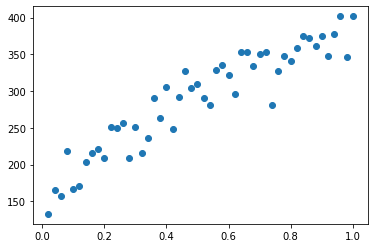
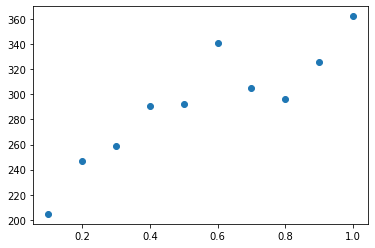
changes theme (hopefully)

diff --git a/docs/index.html b/docs/index.html
@@ -121,14 +121,16 @@ The mean is the trimmed mean the upper limit is twice the standard deviation fro
 <div class="inner_cell">
     <div class="input_area">
 <div class=" highlight hl-ipython3"><pre><span></span><span class="kn">import</span> <span class="nn">numpy</span> <span class="k">as</span> <span class="nn">np</span>
+<span class="kn">from</span> <span class="nn">scipy</span> <span class="kn">import</span> <span class="n">stats</span>
+
 <span class="n">tm</span> <span class="o">=</span> <span class="p">[]</span>
 <span class="n">etm</span> <span class="o">=</span> <span class="p">[]</span>
-<span class="n">thicknesses</span> <span class="o">=</span> <span class="n">np</span><span class="o">.</span><span class="n">linspace</span><span class="p">(</span><span class="mf">0.02</span><span class="p">,</span> <span class="mf">1.0</span><span class="p">)</span>
+<span class="n">thicknesses</span> <span class="o">=</span> <span class="n">np</span><span class="o">.</span><span class="n">linspace</span><span class="p">(</span><span class="mf">0.1</span><span class="p">,</span> <span class="mf">1.0</span><span class="p">,</span> <span class="mi">10</span><span class="p">)</span>
 <span class="k">for</span> <span class="n">t</span> <span class="ow">in</span> <span class="n">thicknesses</span><span class="p">:</span>
     <span class="n">main_macro</span><span class="p">,</span> <span class="n">output_root</span> <span class="o">=</span> <span class="n">create_all</span><span class="p">(</span><span class="n">sensor_thickness</span><span class="o">=</span><span class="n">t</span><span class="p">)</span>
     <span class="n">run_macro</span><span class="p">(</span><span class="n">main_macro</span><span class="p">)</span>
     <span class="n">root_hits_file</span> <span class="o">=</span> <span class="n">output_root</span><span class="p">[</span><span class="s1">&#39;hits&#39;</span><span class="p">][</span><span class="mi">0</span><span class="p">]</span>
-    <span class="n">edep</span> <span class="o">=</span> <span class="n">get_edep_data</span><span class="p">(</span><span class="n">root_hits_file</span><span class="p">)</span>
+    <span class="n">edep</span> <span class="o">=</span> <span class="n">get_edep_data</span><span class="p">(</span><span class="n">get_df_subentry2</span><span class="p">(</span><span class="n">root_hits_file</span><span class="p">),</span> <span class="n">sensor</span><span class="o">=</span><span class="mi">0</span><span class="p">)</span>
     <span class="c1"># check that edep exists</span>
     <span class="k">if</span> <span class="n">edep</span><span class="o">.</span><span class="n">any</span><span class="p">():</span>
         <span class="n">tm</span><span class="o">.</span><span class="n">append</span><span class="p">(</span><span class="n">stats</span><span class="o">.</span><span class="n">tmean</span><span class="p">(</span><span class="n">edep</span><span class="p">,</span> <span class="n">limits</span><span class="o">=</span><span class="p">(</span><span class="n">edep</span><span class="o">.</span><span class="n">min</span><span class="p">(),</span><span class="n">np</span><span class="o">.</span><span class="n">mean</span><span class="p">(</span><span class="n">edep</span><span class="p">)</span> <span class="o">+</span> <span class="mi">2</span> <span class="o">*</span> <span class="n">np</span><span class="o">.</span><span class="n">std</span><span class="p">(</span><span class="n">edep</span><span class="p">))))</span>
@@ -147,18 +149,38 @@ The mean is the trimmed mean the upper limit is twice the standard deviation fro
 
 <div class="output_area">
 
-<div class="output_subarea output_text output_error">
-<pre>
-<span class="ansi-red-fg">---------------------------------------------------------------------------</span>
-<span class="ansi-red-fg">NameError</span>                                 Traceback (most recent call last)
-<span class="ansi-green-fg">&lt;ipython-input-5-2a7ddd594455&gt;</span> in <span class="ansi-cyan-fg">&lt;module&gt;</span>
-<span class="ansi-green-intense-fg ansi-bold">      1</span> tm <span class="ansi-blue-fg">=</span> <span class="ansi-blue-fg">[</span><span class="ansi-blue-fg">]</span>
-<span class="ansi-green-intense-fg ansi-bold">      2</span> etm <span class="ansi-blue-fg">=</span> <span class="ansi-blue-fg">[</span><span class="ansi-blue-fg">]</span>
-<span class="ansi-green-fg">----&gt; 3</span><span class="ansi-red-fg"> </span>thicknesses <span class="ansi-blue-fg">=</span> np<span class="ansi-blue-fg">.</span>linspace<span class="ansi-blue-fg">(</span><span class="ansi-cyan-fg">0.02</span><span class="ansi-blue-fg">,</span> <span class="ansi-cyan-fg">1.0</span><span class="ansi-blue-fg">)</span>
-<span class="ansi-green-intense-fg ansi-bold">      4</span> <span class="ansi-green-fg">for</span> t <span class="ansi-green-fg">in</span> thicknesses<span class="ansi-blue-fg">:</span>
-<span class="ansi-green-intense-fg ansi-bold">      5</span>     main_macro<span class="ansi-blue-fg">,</span> output_root <span class="ansi-blue-fg">=</span> create_all<span class="ansi-blue-fg">(</span>sensor_thickness<span class="ansi-blue-fg">=</span>t<span class="ansi-blue-fg">)</span>
-
-<span class="ansi-red-fg">NameError</span>: name &#39;np&#39; is not defined</pre>
+<div class="output_subarea output_stream output_stdout output_text">
+<pre>system thickness: 0.6
+y location of sensor 0 is: 0.25
+system created with: thickness: 0.6 at loc: -21
+system thickness: 0.7
+y location of sensor 0 is: 0.24999999999999997
+system created with: thickness: 0.7 at loc: -21
+system thickness: 0.8
+y location of sensor 0 is: 0.25
+system created with: thickness: 0.8 at loc: -21
+system thickness: 0.9
+y location of sensor 0 is: 0.25
+system created with: thickness: 0.9 at loc: -21
+system thickness: 1.0
+y location of sensor 0 is: 0.25
+system created with: thickness: 1.0 at loc: -21
+system thickness: 1.1
+y location of sensor 0 is: 0.25000000000000006
+system created with: thickness: 1.1 at loc: -21
+system thickness: 1.2000000000000002
+y location of sensor 0 is: 0.25000000000000006
+system created with: thickness: 1.2000000000000002 at loc: -21
+system thickness: 1.3
+y location of sensor 0 is: 0.25
+system created with: thickness: 1.3 at loc: -21
+system thickness: 1.4
+y location of sensor 0 is: 0.24999999999999994
+system created with: thickness: 1.4 at loc: -21
+system thickness: 1.5
+y location of sensor 0 is: 0.25
+system created with: thickness: 1.5 at loc: -21
+</pre>
 </div>
 </div>
 
@@ -170,7 +192,7 @@ The mean is the trimmed mean the upper limit is twice the standard deviation fro
 
 <div class="cell border-box-sizing text_cell rendered"><div class="inner_cell">
 <div class="text_cell_render border-box-sizing rendered_html">
-<p>5 phatom layers each 1 cm thick, the two outer layers had skull as their material, the 3 inner ones had water as the material. The beam was 250 MeV proton pencil beam. The sensor thickness was varied between 20 and 1000 $\mu$m</p>
+<p>20 phatom layers each 1 cm thick, the two outer layers had skull as their material, the 18 inner ones have water as the material. The beam was 250 MeV proton pencil beam. The sensor thickness was varied between 100 and 1000 $\mu$m</p>
 
 </div>
 </div>
@@ -187,6 +209,34 @@ The mean is the trimmed mean the upper limit is twice the standard deviation fro
 </pre></div>
 
     </div>
+</div>
+</div>
+
+<div class="output_wrapper">
+<div class="output">
+
+<div class="output_area">
+
+
+
+<div class="output_text output_subarea output_execute_result">
+<pre>&lt;matplotlib.collections.PathCollection at 0x7fa760ce1d00&gt;</pre>
+</div>
+
+</div>
+
+<div class="output_area">
+
+
+
+<div class="output_png output_subarea ">
[1 lines of base64/hex data omitted]
+"
+>
+</div>
+
+</div>
+
 </div>
 </div>
 
@@ -208,7 +258,7 @@ The mean is the trimmed mean the upper limit is twice the standard deviation fro
 </div>
 <div class="cell border-box-sizing text_cell rendered"><div class="inner_cell">
 <div class="text_cell_render border-box-sizing rendered_html">
-<p>Next two cells show some practice with saving and reading back csv files.</p>
+<p>save the above example with 20 phantom layers</p>
 
 </div>
 </div>
@@ -222,7 +272,7 @@ The mean is the trimmed mean the upper limit is twice the standard deviation fro
     <div class="input_area">
 <div class=" highlight hl-ipython3"><pre><span></span><span class="kn">import</span> <span class="nn">csv</span>
 <span class="n">columns</span> <span class="o">=</span> <span class="p">[</span><span class="s2">&quot;thickness&quot;</span><span class="p">,</span> <span class="s2">&quot;trimmed mean&quot;</span><span class="p">,</span> <span class="s2">&quot;error_on_trimmed_mean&quot;</span><span class="p">]</span>
-<span class="k">with</span> <span class="nb">open</span><span class="p">(</span><span class="s1">&#39;thickness.csv&#39;</span><span class="p">,</span> <span class="s1">&#39;w&#39;</span><span class="p">,</span> <span class="n">encoding</span><span class="o">=</span><span class="s1">&#39;utf-8&#39;</span><span class="p">)</span> <span class="k">as</span> <span class="n">f_out</span><span class="p">:</span>
+<span class="k">with</span> <span class="nb">open</span><span class="p">(</span><span class="s1">&#39;thickness_20.csv&#39;</span><span class="p">,</span> <span class="s1">&#39;w&#39;</span><span class="p">,</span> <span class="n">encoding</span><span class="o">=</span><span class="s1">&#39;utf-8&#39;</span><span class="p">)</span> <span class="k">as</span> <span class="n">f_out</span><span class="p">:</span>
     <span class="n">f_writer</span> <span class="o">=</span> <span class="n">csv</span><span class="o">.</span><span class="n">writer</span><span class="p">(</span><span class="n">f_out</span><span class="p">,</span> <span class="n">delimiter</span><span class="o">=</span><span class="s1">&#39;,&#39;</span><span class="p">,</span> <span class="n">lineterminator</span><span class="o">=</span><span class="s1">&#39;</span><span class="se">\n</span><span class="s1">&#39;</span><span class="p">)</span>
     <span class="n">f_writer</span><span class="o">.</span><span class="n">writerow</span><span class="p">(</span><span class="n">columns</span><span class="p">)</span>
     <span class="n">f_writer</span><span class="o">.</span><span class="n">writerows</span><span class="p">(</span><span class="nb">zip</span><span class="p">(</span><span class="n">thicknesses</span><span class="p">,</span> <span class="n">tm</span><span class="p">,</span> <span class="n">etm</span><span class="p">))</span>
@@ -235,6 +285,13 @@ The mean is the trimmed mean the upper limit is twice the standard deviation fro
 </div>
     {% endraw %}
 
+<div class="cell border-box-sizing text_cell rendered"><div class="inner_cell">
+<div class="text_cell_render border-box-sizing rendered_html">
+<p>Read back an earlier result with 5 phatom layers each 1 cm thick, the two outer layers had skull as their material, the 3 inner ones have water as the material. The beam the same as in the above example 250 MeV proton pencil beam. The sensor thickness was varied between 20 and 1000 $\mu$m in 20 $\mu$m steps</p>
+
+</div>
+</div>
+</div>
     {% raw %}
     
 <div class="cell border-box-sizing code_cell rendered">
@@ -249,6 +306,34 @@ The mean is the trimmed mean the upper limit is twice the standard deviation fro
 </pre></div>
 
     </div>
+</div>
+</div>
+
+<div class="output_wrapper">
+<div class="output">
+
+<div class="output_area">
+
+
+
+<div class="output_text output_subarea output_execute_result">
+<pre>&lt;matplotlib.collections.PathCollection at 0x7fa747cba040&gt;</pre>
+</div>
+
+</div>
+
+<div class="output_area">
+
+
+
+<div class="output_png output_subarea ">
[1 lines of base64/hex data omitted]
+"
+>
+</div>
+
+</div>
+
 </div>
 </div>
 
@@ -276,10 +361,7 @@ The mean is the trimmed mean the upper limit is twice the standard deviation fro
 
 <div class="inner_cell">
     <div class="input_area">
-<div class=" highlight hl-ipython3"><pre><span></span><span class="kn">import</span> <span class="nn">numpy</span> <span class="k">as</span> <span class="nn">np</span>
-<span class="kn">from</span> <span class="nn">scipy</span> <span class="kn">import</span> <span class="n">stats</span>
-
-<span class="n">m</span> <span class="o">=</span> <span class="n">np</span><span class="o">.</span><span class="n">mean</span><span class="p">(</span><span class="n">edep</span><span class="p">)</span>
+<div class=" highlight hl-ipython3"><pre><span></span><span class="n">m</span> <span class="o">=</span> <span class="n">np</span><span class="o">.</span><span class="n">mean</span><span class="p">(</span><span class="n">edep</span><span class="p">)</span>
 <span class="n">em</span> <span class="o">=</span> <span class="n">stats</span><span class="o">.</span><span class="n">sem</span><span class="p">(</span><span class="n">edep</span><span class="p">)</span>
 <span class="n">tm</span> <span class="o">=</span> <span class="n">stats</span><span class="o">.</span><span class="n">tmean</span><span class="p">(</span><span class="n">edep</span><span class="p">,</span> <span class="n">limits</span><span class="o">=</span><span class="p">(</span><span class="n">edep</span><span class="o">.</span><span class="n">min</span><span class="p">(),</span><span class="n">np</span><span class="o">.</span><span class="n">mean</span><span class="p">(</span><span class="n">edep</span><span class="p">)</span> <span class="o">+</span> <span class="mi">2</span> <span class="o">*</span> <span class="n">np</span><span class="o">.</span><span class="n">std</span><span class="p">(</span><span class="n">edep</span><span class="p">)))</span>
 <span class="n">tm_p</span> <span class="o">=</span> <span class="n">stats</span><span class="o">.</span><span class="n">tmean</span><span class="p">(</span><span class="n">edep</span><span class="p">,</span> <span class="n">limits</span><span class="o">=</span><span class="p">(</span><span class="n">edep</span><span class="o">.</span><span class="n">min</span><span class="p">(),</span><span class="n">np</span><span class="o">.</span><span class="n">mean</span><span class="p">(</span><span class="n">edep</span><span class="p">)</span> <span class="o">+</span> <span class="mi">2</span> <span class="o">*</span> <span class="n">np</span><span class="o">.</span><span class="n">std</span><span class="p">(</span><span class="n">edep</span><span class="p">)</span> <span class="o">+</span> <span class="n">em</span><span class="p">))</span>
@@ -293,6 +375,22 @@ The mean is the trimmed mean the upper limit is twice the standard deviation fro
 </pre></div>
 
     </div>
+</div>
+</div>
+
+<div class="output_wrapper">
+<div class="output">
+
+<div class="output_area">
+
+<div class="output_subarea output_stream output_stdout output_text">
+<pre>Mean:        1152.969970703125,       Error on mean: 11.57, SNR: 99.67
+Trimmed mean 1047.13, Error on trimmed mean: 2.89, SNR: 362.09
+Trimmed mean upper 1047.39, Trimmed mean lower 1046.61 difference: 0.78, SNR: 1338.37
+</pre>
+</div>
+</div>
+
 </div>
 </div>
 

diff --git a/README.md b/README.md
@@ -34,14 +34,16 @@ The mean is the trimmed mean the upper limit is twice the standard deviation fro
 
 ```python
 import numpy as np
+from scipy import stats
+
 tm = []
 etm = []
-thicknesses = np.linspace(0.02, 1.0)
+thicknesses = np.linspace(0.1, 1.0, 10)
 for t in thicknesses:
     main_macro, output_root = create_all(sensor_thickness=t)
     run_macro(main_macro)
     root_hits_file = output_root['hits'][0]
-    edep = get_edep_data(root_hits_file)
+    edep = get_edep_data(get_df_subentry2(root_hits_file), sensor=0)
     # check that edep exists
     if edep.any():
         tm.append(stats.tmean(edep, limits=(edep.min(),np.mean(edep) + 2 * np.std(edep))))
@@ -51,43 +53,72 @@ for t in thicknesses:
         # print(f'Trimmed mean {round(tm, 2)}, Error on trimmed mean: {round(etm, 2)}, SNR: {round(tm/etm, 2)}')
 ```
 
+    system thickness: 0.6
+    y location of sensor 0 is: 0.25
+    system created with: thickness: 0.6 at loc: -21
+    system thickness: 0.7
+    y location of sensor 0 is: 0.24999999999999997
+    system created with: thickness: 0.7 at loc: -21
+    system thickness: 0.8
+    y location of sensor 0 is: 0.25
+    system created with: thickness: 0.8 at loc: -21
+    system thickness: 0.9
+    y location of sensor 0 is: 0.25
+    system created with: thickness: 0.9 at loc: -21
+    system thickness: 1.0
+    y location of sensor 0 is: 0.25
+    system created with: thickness: 1.0 at loc: -21
+    system thickness: 1.1
+    y location of sensor 0 is: 0.25000000000000006
+    system created with: thickness: 1.1 at loc: -21
+    system thickness: 1.2000000000000002
+    y location of sensor 0 is: 0.25000000000000006
+    system created with: thickness: 1.2000000000000002 at loc: -21
+    system thickness: 1.3
+    y location of sensor 0 is: 0.25
+    system created with: thickness: 1.3 at loc: -21
+    system thickness: 1.4
+    y location of sensor 0 is: 0.24999999999999994
+    system created with: thickness: 1.4 at loc: -21
+    system thickness: 1.5
+    y location of sensor 0 is: 0.25
+    system created with: thickness: 1.5 at loc: -21
 
-    ---------------------------------------------------------------------------
 
-    NameError                                 Traceback (most recent call last)
-
-    <ipython-input-5-2a7ddd594455> in <module>
-          1 tm = []
-          2 etm = []
-    ----> 3 thicknesses = np.linspace(0.02, 1.0)
-          4 for t in thicknesses:
-          5     main_macro, output_root = create_all(sensor_thickness=t)
-
-
-    NameError: name 'np' is not defined
-
-
-5 phatom layers each 1 cm thick, the two outer layers had skull as their material, the 3 inner ones had water as the material. The beam was 250 MeV proton pencil beam. The sensor thickness was varied between 20 and 1000 $\mu$m
+20 phatom layers each 1 cm thick, the two outer layers had skull as their material, the 18 inner ones have water as the material. The beam was 250 MeV proton pencil beam. The sensor thickness was varied between 100 and 1000 $\mu$m
 
 ```python
 import matplotlib.pyplot as plt
 plt.scatter(thicknesses, np.array(tm)/np.array(etm))
 ```
 
+
+
+
+    <matplotlib.collections.PathCollection at 0x7fa760ce1d00>
+
+
+
+
+![png](docs/images/output_11_1.png)
+
+
 ---
 
 ### Save the data to and read them back from csv
 
-Next two cells show some practice with saving and reading back csv files.
+save the above example with 20 phantom layers
 
 ```python
 import csv
 columns = ["thickness", "trimmed mean", "error_on_trimmed_mean"]
-with open('thickness.csv', 'w', encoding='utf-8') as f_out:
+with open('thickness_20.csv', 'w', encoding='utf-8') as f_out:
     f_writer = csv.writer(f_out, delimiter=',', lineterminator='\n')
     f_writer.writerow(columns)
     f_writer.writerows(zip(thicknesses, tm, etm))
 ```
+
+Read back an earlier result with 5 phatom layers each 1 cm thick, the two outer layers had skull as their material, the 3 inner ones have water as the material. The beam the same as in the above example 250 MeV proton pencil beam. The sensor thickness was varied between 20 and 1000 $\mu$m in 20 $\mu$m steps
 
 ```python
 import pandas
@@ -96,14 +127,22 @@ thickness_df = pandas.read_csv('thickness.csv')
 plt.scatter(thickness_df['thickness'], thickness_df['trimmed mean']/thickness_df['error_on_trimmed_mean'])
 ```
 
+
+
+
+    <matplotlib.collections.PathCollection at 0x7fa747cba040>
+
+
+
+
+![png](docs/images/output_17_1.png)
+
+
 ---
 
 Study of the trimmed mean. I have checked that the error on the trimmed mean is larger than the error arising from uncertainty on the upper trim value. The upper trim value of 2 standard deviation from the untrimmed mean seems to give a reasonable result.
 
 ```python
-import numpy as np
-from scipy import stats
-
 m = np.mean(edep)
 em = stats.sem(edep)
 tm = stats.tmean(edep, limits=(edep.min(),np.mean(edep) + 2 * np.std(edep)))
@@ -116,6 +155,11 @@ print(f'Trimmed mean upper {round(tm_p, 2)}, Trimmed mean lower {round(tm_m, 2)}
 
 #print(stats.mode(np.round(edep, 0)))
 ```
+
+    Mean:        1152.969970703125,       Error on mean: 11.57, SNR: 99.67
+    Trimmed mean 1047.13, Error on trimmed mean: 2.89, SNR: 362.09
+    Trimmed mean upper 1047.39, Trimmed mean lower 1046.61 difference: 0.78, SNR: 1338.37
+
 
 ---
 
